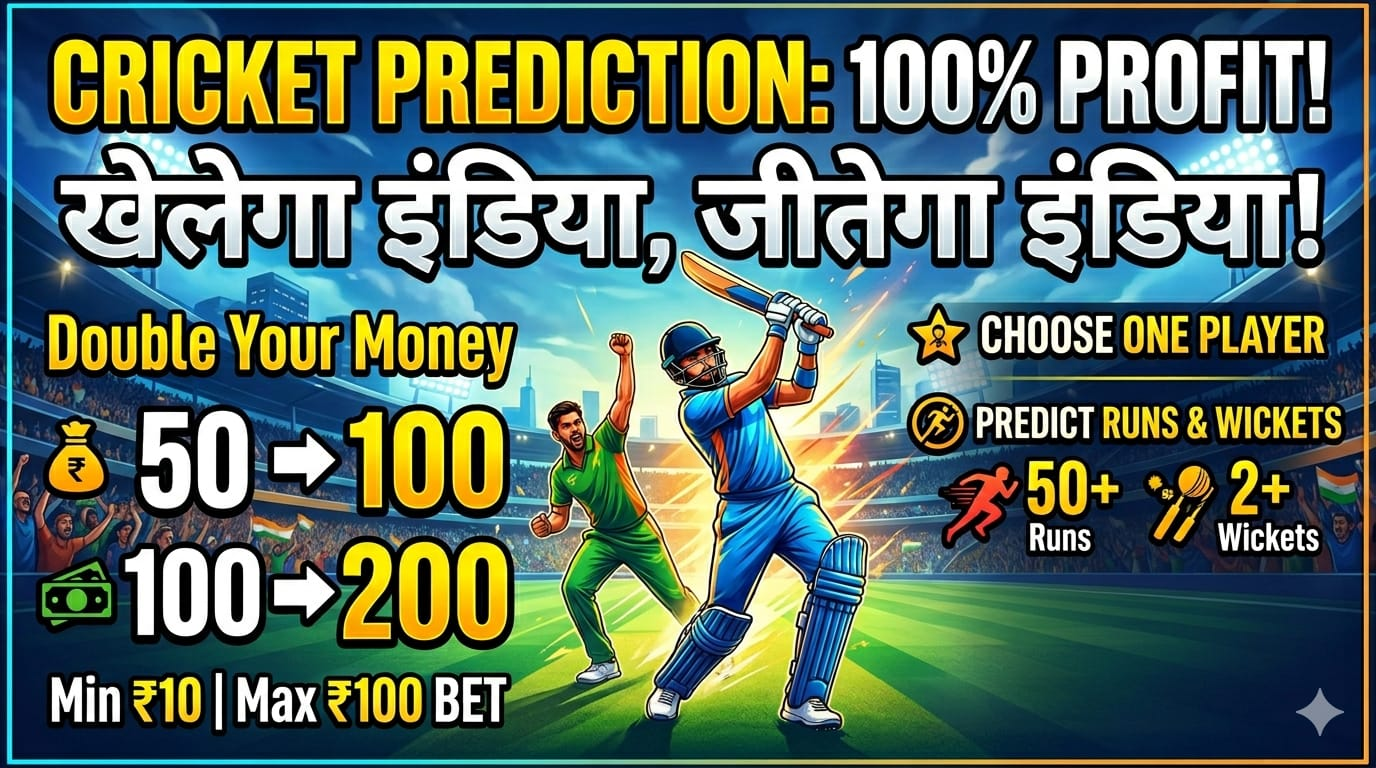
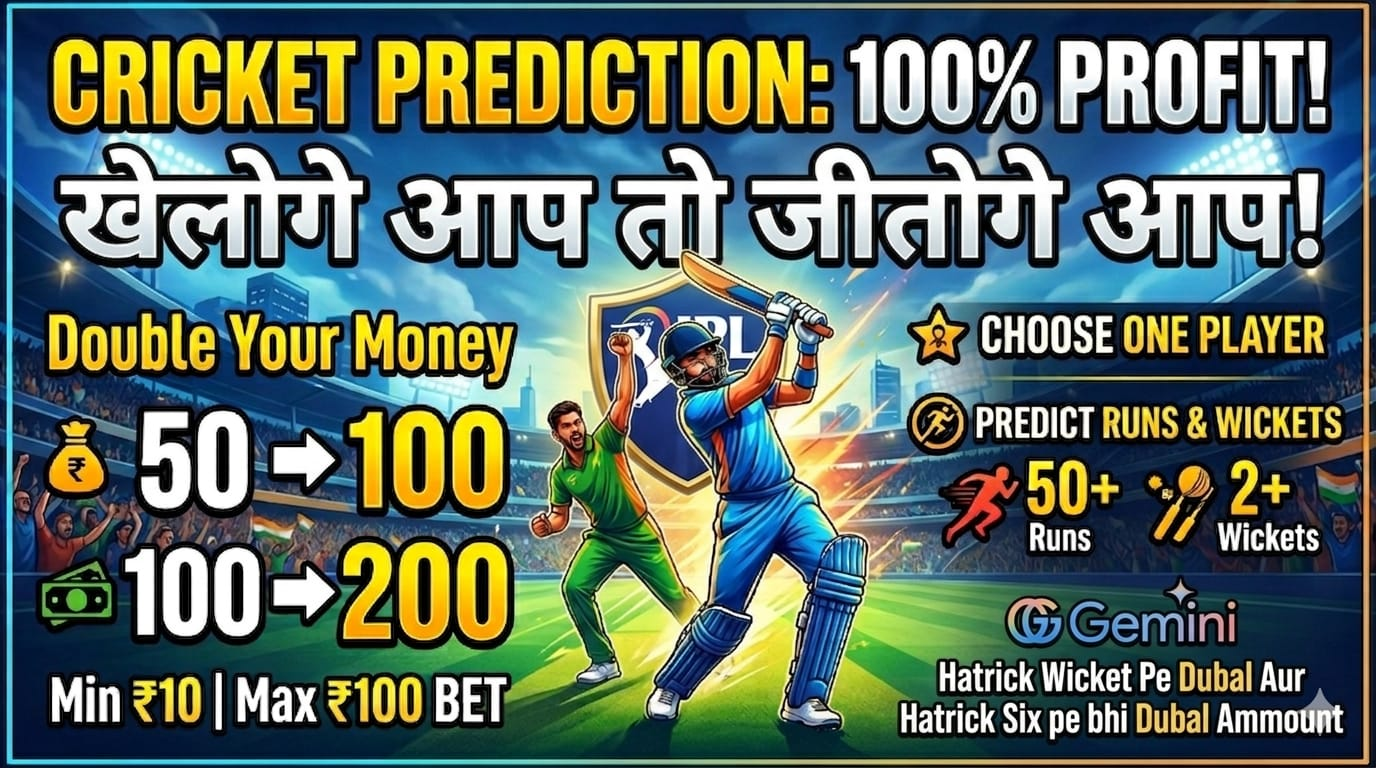
add

diff --git a/app/component/FloatingWhatsapp.js b/app/component/FloatingWhatsapp.js
@@ -1,0 +1,21 @@
+"use client";
+
+import { FaWhatsapp } from "react-icons/fa";
+
+export default function FloatingWhatsapp() {
+  const phoneNumber = "917324892379"; // 👈 apna number (91 + number)
+  const message = "Hello bhai mujhe info chahiye"; // 👈 optional message
+
+  const whatsappLink = `https://wa.me/${phoneNumber}?text=${encodeURIComponent(message)}`;
+
+  return (
+    <a
+      href={whatsappLink}
+      target="_blank"
+      rel="noopener noreferrer"
+      className="fixed bottom-5 right-5 z-50 flex items-center justify-center bg-green-500 hover:bg-green-600 text-white p-4 rounded-full shadow-lg transition-transform hover:scale-110"
+    >
+      <FaWhatsapp size={28} />
+    </a>
+  );
+}

diff --git a/app/batting/page.js b/app/batting/page.js
@@ -1,7 +1,8 @@
 "use client";
 import { useState, useMemo, useEffect } from "react";
-import Whatsapp from "../component/Whatsapp";
+
 import { matchesList, tabledata } from "../component/matchesData";
+import FloatingWhatsapp from "../component/FloatingWhatsapp";
 
 const roleColors = {
   Batsman: "bg-blue-100 text-blue-700",
@@ -81,7 +82,7 @@ export default function CricketMatch() {
               <p className="text-green-600 text-[10px] font-bold tracking-widest uppercase">IPL  2026</p>
             </div>
           </div>
-          <Whatsapp />
+          <FloatingWhatsapp></FloatingWhatsapp>
         </div>
 
 

diff --git a/app/page.js b/app/page.js
@@ -6,11 +6,11 @@ import Marquee from "./component/Marquee";
 import Loader from "./component/Loader";
 
 const gridLinks = [
-  {
-    text: "Ramnagar",
-    href: "/batting/randomnumbertimer",
-    btn: "Play Now / अभी खेलें",
-  },
+  // {
+  //   text: "Ramnagar",
+  //   href: "/batting/randomnumbertimer",
+  //   btn: "Play Now / अभी खेलें",
+  // },
   {
     text: "Online Gaming / Betting Platform",
     href: "/batting",
